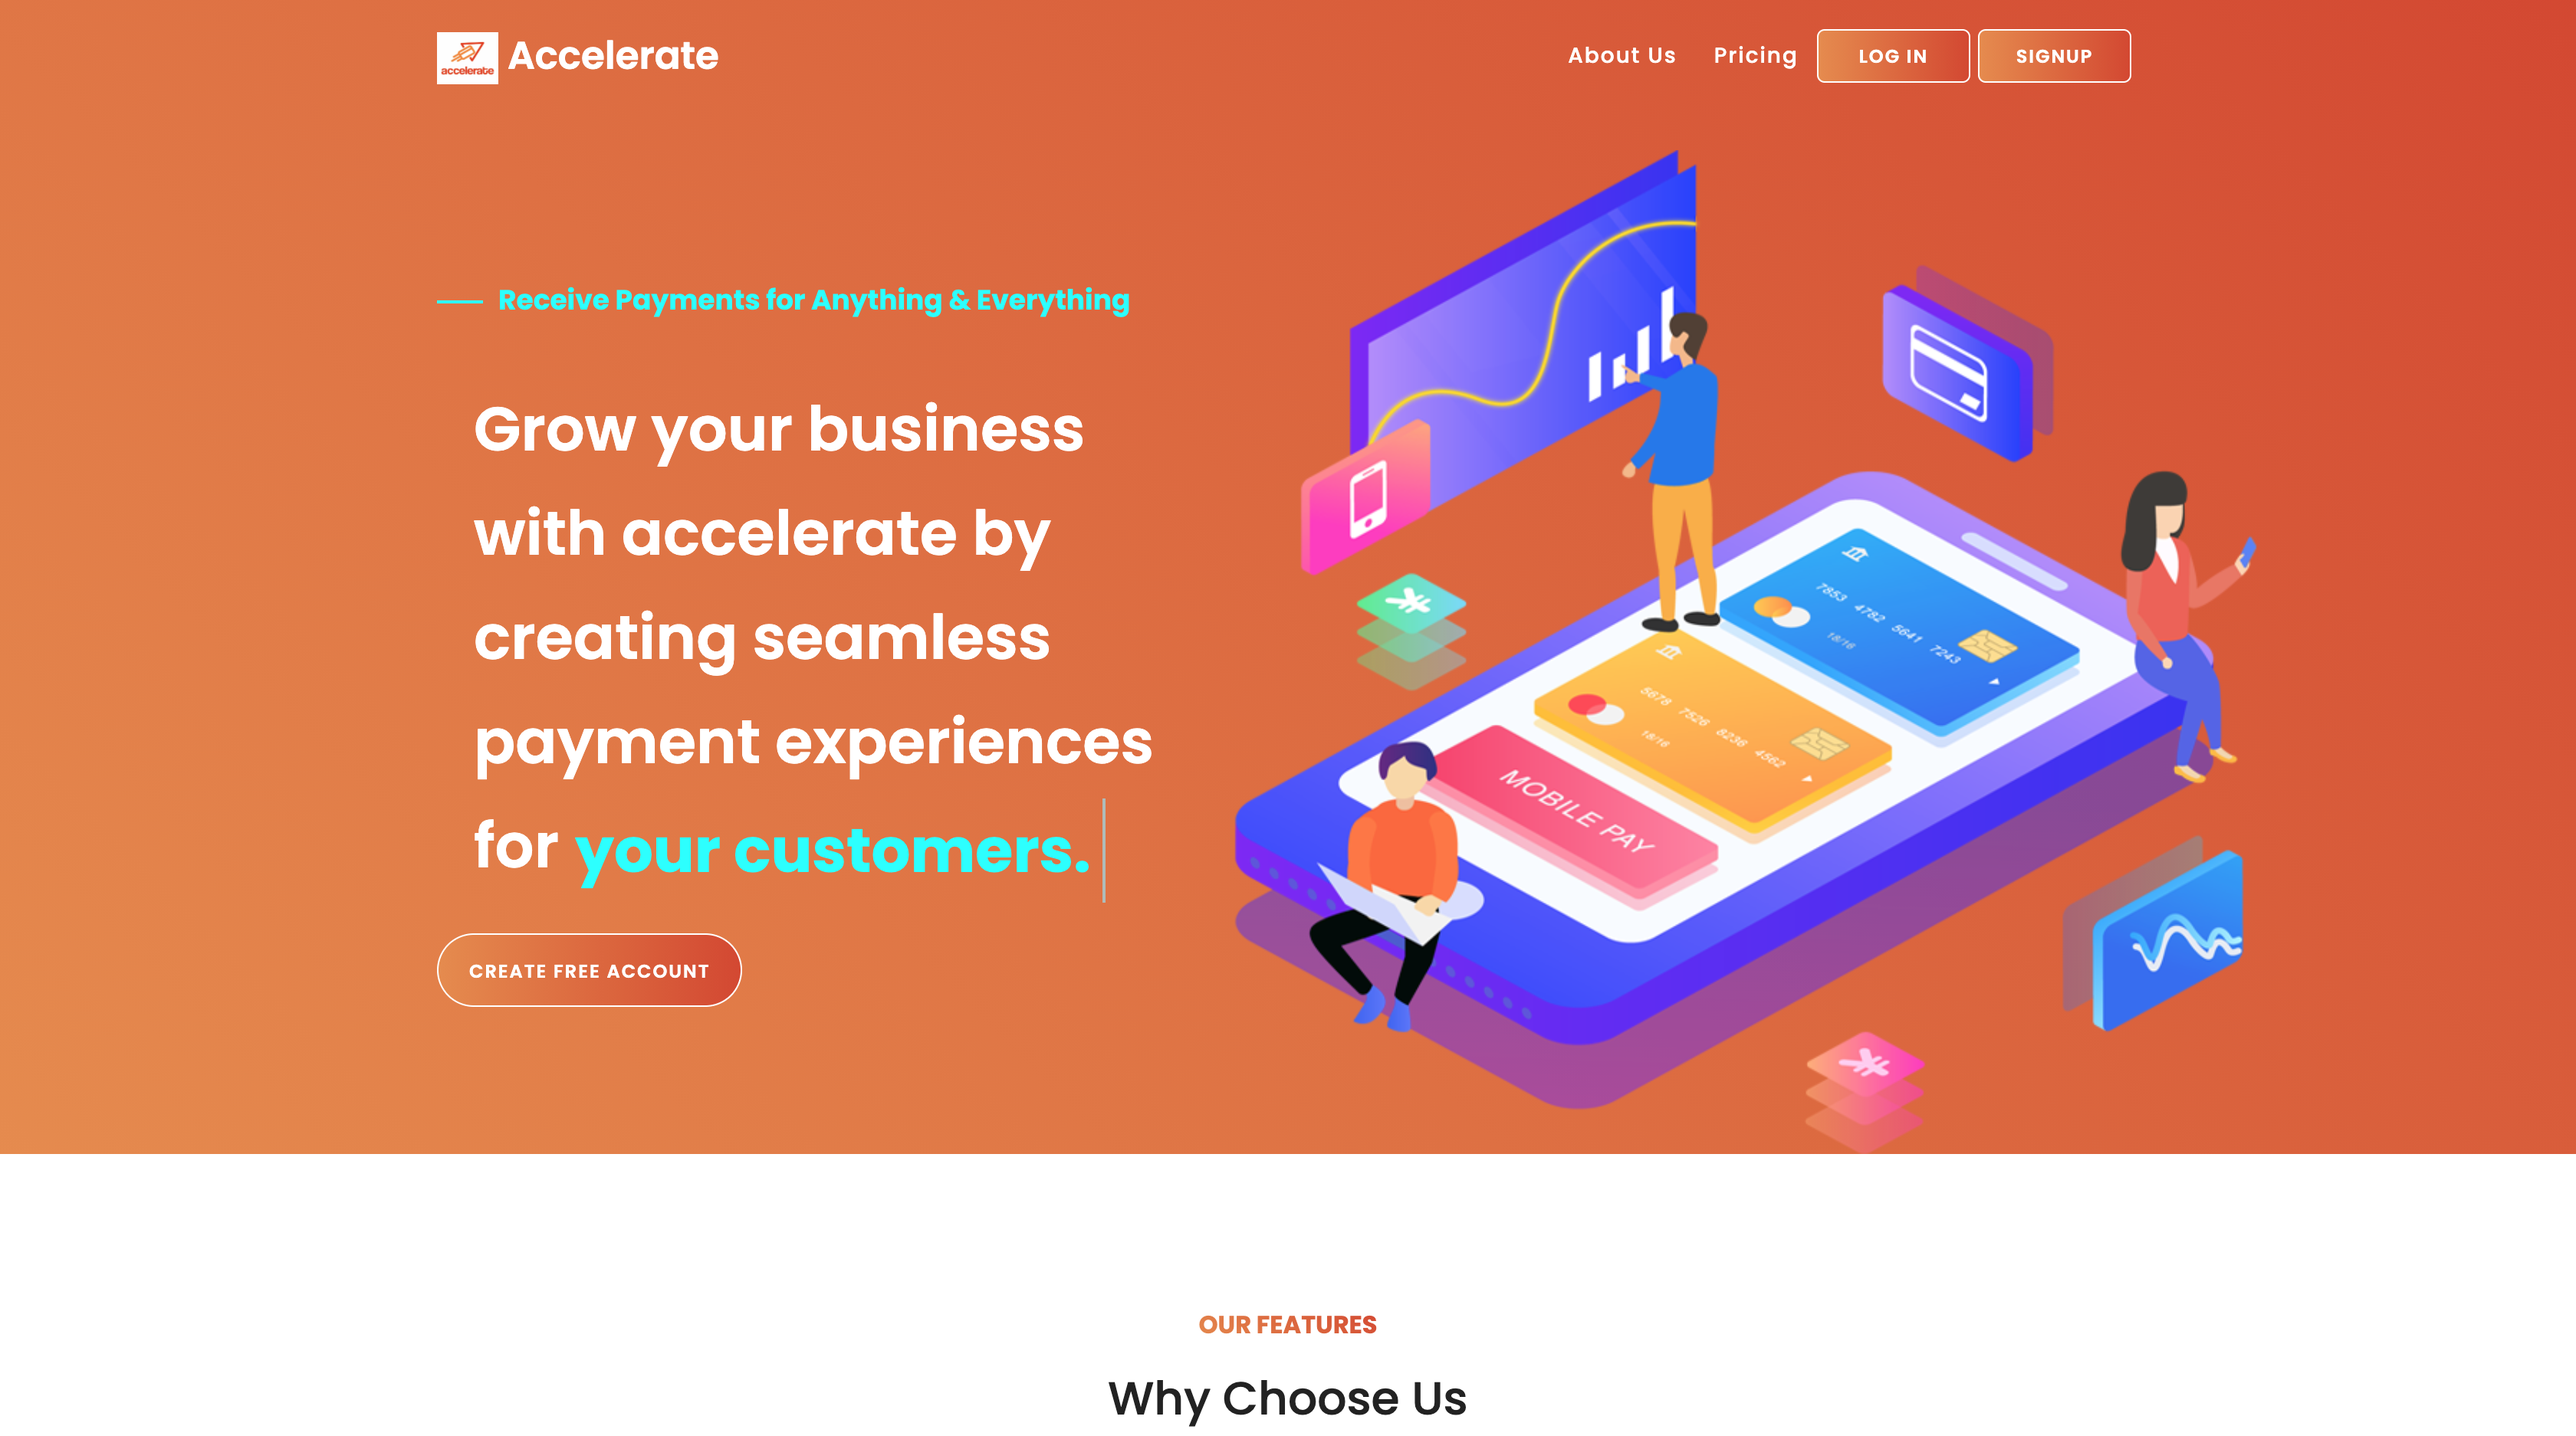
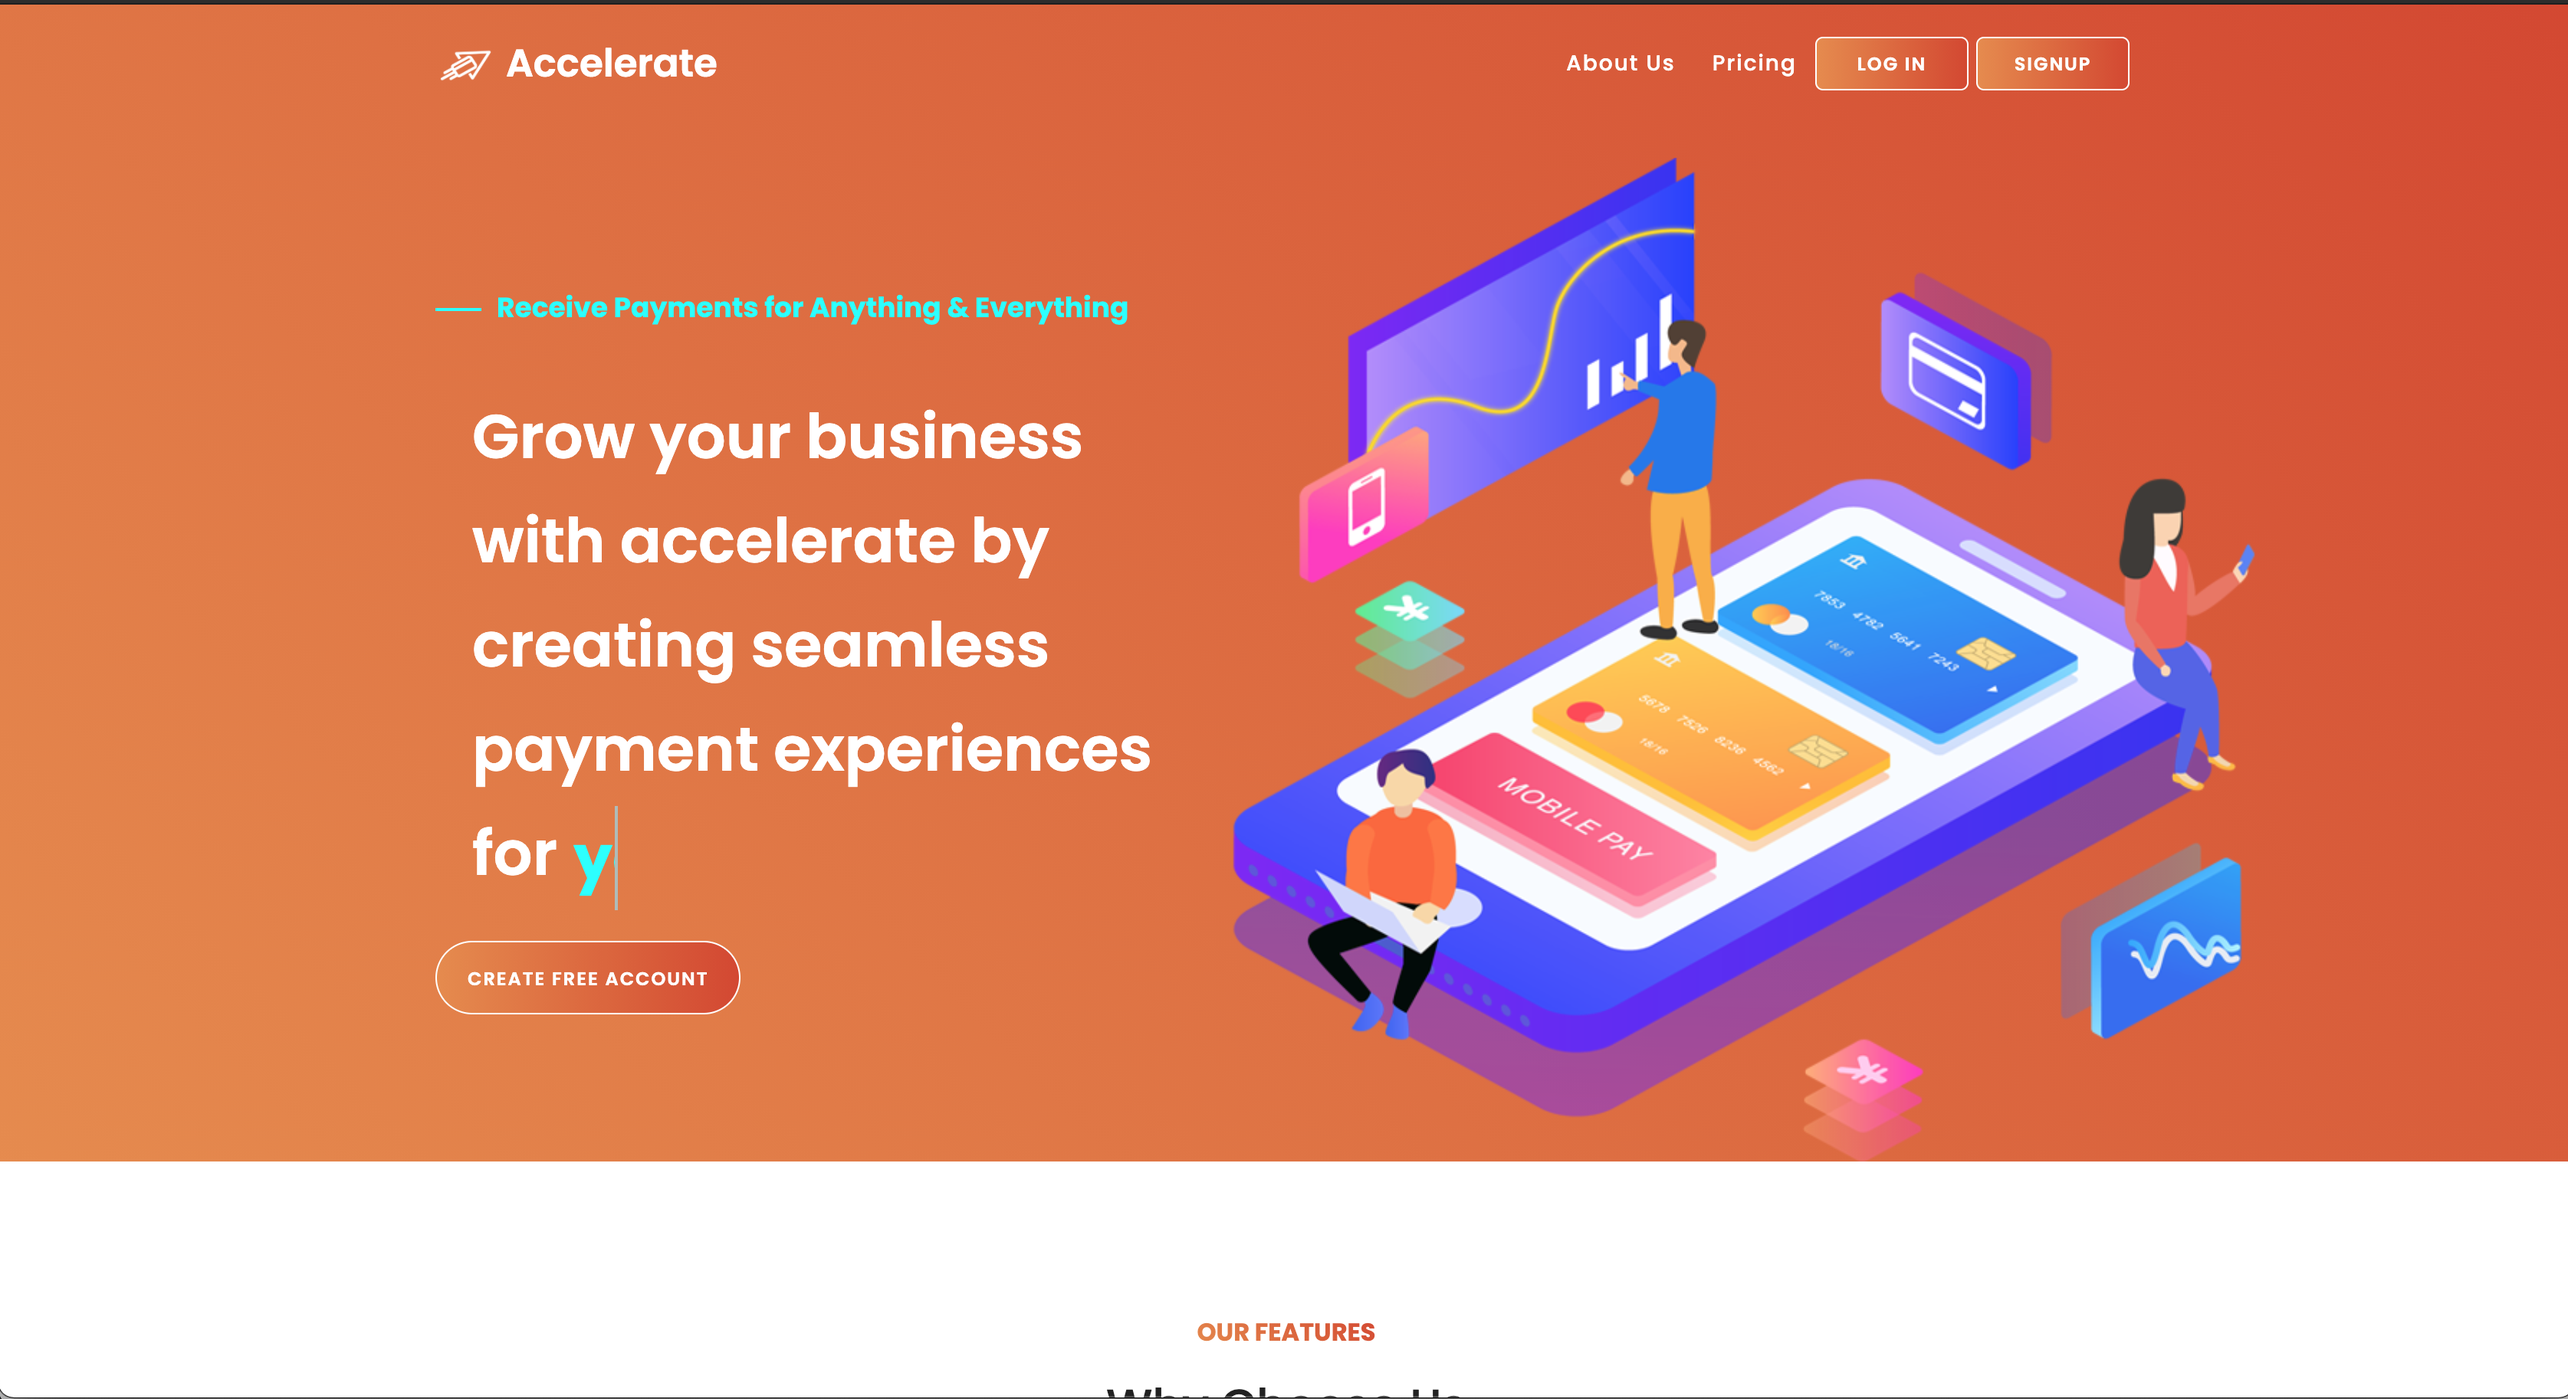
feat: finish up projects page

diff --git a/src/containers/Projects/Projects.tsx b/src/containers/Projects/Projects.tsx
@@ -1,29 +1,23 @@
-import { Box, Flex, Link, Text } from "@chakra-ui/react";
-import React, { useEffect, useRef } from "react";
-import { Header } from "../Header/Header";
+import { Box, Flex, Icon, Link, Text } from "@chakra-ui/react";
+import React, { useEffect } from "react";
+import { AiOutlineArrowLeft } from "react-icons/ai";
+import { Header } from "../../components/Header/Header";
 import wocman from "../../assets/images/wocman.png";
 import nuvle from "../../assets/images/nulve.png";
 import irecharge from "../../assets/images/irecharge.png";
 import accelerate from "../../assets/images/accelerate.png";
+import foodDelivery from "../../assets/images/food-delivery.png";
+import logistics from "../../assets/images/logistics.png";
+import todma from "../../assets/images/todma.png";
 import { useHistory } from "react-router-dom";
-import { isInViewport } from "../../utils/isInViewPort";
+import { shuffleArray } from "../../utils/helper";
 
 export const Projects = () => {
   const history = useHistory();
 
-  const ref = useRef<HTMLDivElement>();
-
   useEffect(() => {
-    window.addEventListener("scroll", handleScroll);
-
-    return () => window.removeEventListener("scroll", handleScroll);
-  });
-
-  const handleScroll = () => {
-    if (isInViewport(ref)) {
-      history.push(window.location.pathname + "#projects");
-    }
-  };
+    window.scrollTo(0, 0);
+  }, []);
 
   const projects: Array<{ title: string; href: string; image: string }> = [
     {
@@ -46,20 +40,44 @@ export const Projects = () => {
       href: "https://staging--nuvle.netlify.app",
       image: nuvle,
     },
+    {
+      title: "Todma Traffic Offenders Dashboard",
+      href: "http://www.todma.istrategytech.com/#/admin/dashboard",
+      image: todma,
+    },
+    {
+      title: "Logistics Dashboard",
+      href: "http://logistic-admin.istrategytech.com/",
+      image: logistics,
+    },
+    {
+      title: "Food Delivery Dashboard",
+      href: "https://foodadmin.istrategytech.com/",
+      image: foodDelivery,
+    },
   ];
-	
+
+  const shuffledArray = shuffleArray(projects);
 
   return (
     <Box
-      mt={{ base: 8, md: 16, xl: 48 }}
+      my={{ base: 8, md: 8 }}
       px={{ base: 6, md: 24, xl: 32 }}
-      ref={ref as React.RefObject<HTMLDivElement>}
       id="projects"
       //   backgroundColor="#FAFBFE"
     >
-      <Header primaryText="Here are" secondaryText="some of my works" />
+      <Flex mb={8} width="fit-content">
+        <Icon
+          as={AiOutlineArrowLeft}
+          onClick={() => history.push("/")}
+          cursor="pointer"
+          h={{ base: 6, md: 8 }}
+          w={{ base: 6, md: 8 }}
+        />
+      </Flex>
+      <Header primaryText="My Works" secondaryText="" />
       <Flex flexWrap="wrap" justify="space-between">
-        {projects.map((item, index) => {
+        {shuffledArray.map((item, index) => {
           return (
             <ProjectItem
               key={index}
@@ -71,12 +89,14 @@ export const Projects = () => {
           );
         })}
       </Flex>
-      <Flex mt={8} mb={{ base: 8, md: 16 }} onClick={() => history.push("/projects")}>
+      <Flex mt={8} mb={{ base: 8, md: 16 }} onClick={() => history.push("/")}>
         <Box
           as={Link}
           position="relative"
           textAlign="start"
+          to="/"
           mr="auto"
+          zIndex="1"
           fontFamily="Poppins"
           fontWeight="600"
           fontSize={{ base: "1.4rem", md: "2rem" }}
@@ -94,7 +114,7 @@ export const Projects = () => {
             zIndex: "-1",
           }}
         >
-          View More
+          Go Home
         </Box>
       </Flex>
     </Box>
@@ -109,7 +129,7 @@ interface ProjectItemProps {
 }
 
 const ProjectItem: React.FunctionComponent<ProjectItemProps> = (props) => {
-  const isThirdInSequence = props.index % 3 === 0;
+  const isThirdInSequence = props.index % 1 === 0;
 
   return (
     <Flex

diff --git a/src/App.tsx b/src/App.tsx
@@ -4,9 +4,13 @@ import { BrowserRouter, Redirect, Route, Switch } from "react-router-dom";
 import { CSSTransition } from "react-transition-group";
 import { Home } from "./containers/Home/Home";
 import "./App.css";
+import { Projects } from "./containers/Projects/Projects";
 
 export const App = () => {
-  const routes = [{ path: "/", name: "Home", Component: Home }];
+  const routes = [
+    { path: "/", name: "Home", Component: Home },
+    { path: "/projects", name: "Home", Component: Projects },
+  ];
   return (
     <ChakraProvider theme={theme}>
       <Box textAlign="center">

diff --git a/src/components/Hero/Hero.tsx b/src/components/Hero/Hero.tsx
@@ -36,7 +36,7 @@ export const Hero = () => {
       overflowX="visible"
       id="home"
       ref={ref as React.RefObject<HTMLDivElement>}
-      mt={{ base: "20vh", lg: "10vh" }}
+      mt={{ base: "16vh", lg: "14vh" }}
       //   backgroundColor="#FAFBFE"
       px={{ base: 4, md: 12, xl: 16 }}
     >

diff --git a/src/utils/helper.tsx b/src/utils/helper.tsx
@@ -1,0 +1,7 @@
+export function shuffleArray(array: Array<any>): Array<any> {
+  for (let i = array.length - 1; i > 0; i--) {
+    const j = Math.floor(Math.random() * (i + 1));
+    [array[i], array[j]] = [array[j], array[i]];
+  }
+  return array;
+}
